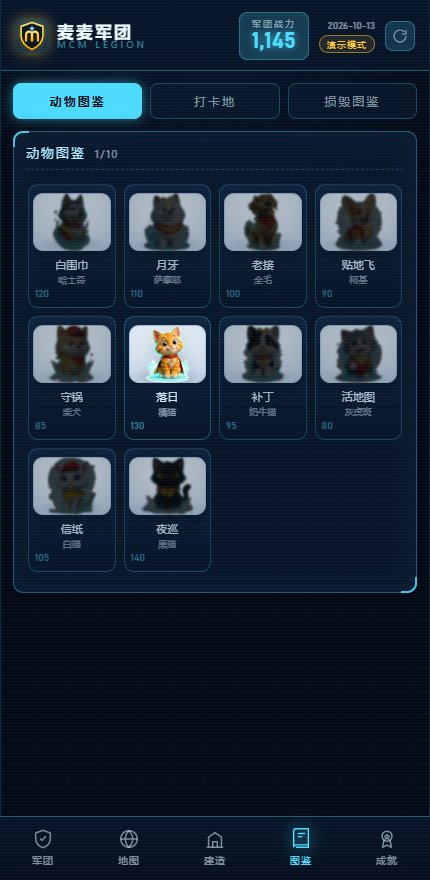
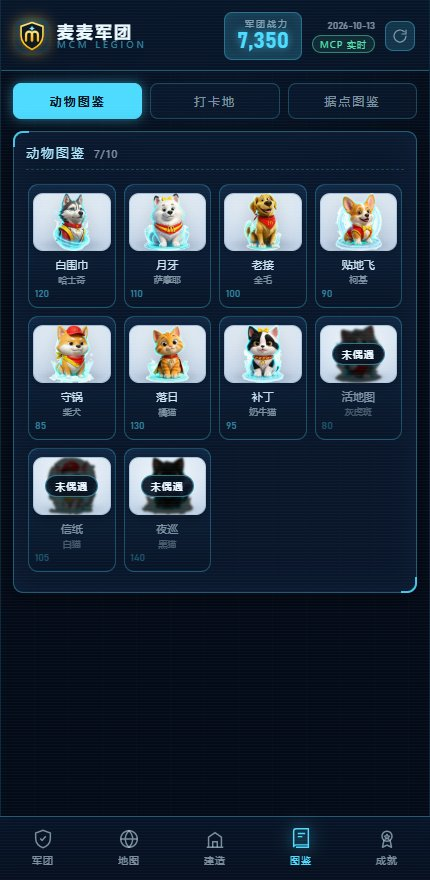
docs: 首屏截图换动物图鉴、修正 raw/ 未入库说明、同步各文档口径
- README 首屏截图：撤下「成就」截图，换为「动物图鉴」。旧图拍摄于改名
  之前（页签仍是「损毁图鉴」），故一并重截：7/10 已收集、含 3 张未收集
  卡片的「未偶遇」标签
- 美术资源说明：raw/ 原始大图（86 张、274MB）实际未入库（.gitignore 已
  排除），README 两处改为明确「仅本地保留作生成源，克隆仓库即可运行」
- 口径同步（文档此前落后于实现的部分）：
  - 成就分组「五组（含终章）」→ 实际四组：日常 9 / 军团 4 / 攻略 4 / 建设 3；
    并注明未解锁徽章不可点击
  - 打卡规则补「每天最多 3 次」（README / 游戏玩法设计 / 数据存储方案 / SKILL）
  - 自检项数 92 → 98（README 两处、workbuddy.md、SKILL.md）
  - 图鉴分页「损毁」→「据点」（游戏玩法设计、SKILL）
  - rng.js 描述补充真随机分支；目录树补 gen-story-doc.mjs

diff --git a/README.md b/README.md
@@ -48,29 +48,31 @@ cp .env.example .env   # 编辑 .env 填入 MCD_MCP_TOKEN
 npm start               # 启动游戏 → http://localhost:3210
 npm run demo            # 命令行演示完整流程（独立存档）
 npm run cli             # 命令行交互游玩
-npm run check:game      # 游戏逻辑自检（92 项）
+npm run check:game      # 游戏逻辑自检（98 项）
 npm run check:web       # Web 界面冒烟测试（14 项，需 playwright）
 ```
 
-> **美术资源**：`raw/` 下为 86 张原始大图（约 3MB/张），由脚本生成 Web 用资产：
+> **美术资源**：`raw/` 原始大图（86 张 PNG，约 3MB/张、合计 274MB）**未纳入仓库**，
+> 已在 `.gitignore` 中排除，仅本地保留作生成源。仓库提交的是生成后的 Web 资产：
 > `assets/` 立绘与据点图（据点/建设 384px、角色/动物 320px，共 3.6MB）+
 > `assets/avatars/` 128px 头部特写头像（22 张共 196KB，供出战编制等小图标位）。
-> 重新生成：`pip install pillow && npm run assets && npm run assets:avatars`。
+> **克隆仓库即可直接运行，无需 `raw/`**；仅在需要重新生成资产时才需自备原始大图：
+> `pip install pillow && npm run assets && npm run assets:avatars`。
 
 ## 🎮 使用示例
 
 1. **打开** http://localhost:3210 ，顶栏显示军团徽章 LOGO、军团总战力与数据模式（演示模式 / MCP 实时）。
-2. **每日行动**：签到（麦麦粉×1，随机男女）→ 打卡（选附近门店，得将军+麦麦军）→ 订单奖励（每单召唤 1 名美食战士）→ 偶遇（1 只当天有效的小动物，每只都有专属名字）；每次行动都会弹出收获详情。
+2. **每日行动**：签到（麦麦粉×1，随机男女）→ 打卡（选附近门店，得将军+麦麦军，**每天最多 3 次**，同一门店限一次）→ 订单奖励（每单召唤 1 名美食战士）→ 偶遇（1 只当天有效的小动物，每只都有专属名字）；每次行动都会弹出收获详情。
 3. **攻略**：「地图」页左右箭头浏览 9 个据点，战力高于据点时「进入攻略」；战斗分 5 阶段，据点图像从「完好无损」逐阶段变为「完全损毁」，战斗日志同步播放六阶段损毁描述，每阶段军团损失约 30% 战力（将军与动物免疫）；战力不足会被迫撤退，损毁进度保留，可改日续攻；攻略完成后按钮变为「攻略完成」。
 4. **建设**：据点完全损毁后解锁建设，开启需任命 1 名麦麦将军为**店长**，后续每次派遣消耗 1 名麦麦军，共 6 步（夯土奠基 → 盛大开业），每日限派遣 1 次；建造面板展示每一步的阶段描述。
 5. **图鉴**：动物图鉴（10 只，一行 4 个网格）、打卡地（门店打卡记录）、据点图鉴（已攻略据点的 6 段损毁场景）。
 6. **详情弹层**：点击军团卡片查看角色/动物介绍（含完整故事文案），所有弹层均可按 **Esc** 或点「关闭」按钮关闭。
-7. **成就**：「成就」页查看 20 枚徽章（日常/军团/攻略/建设/终章五组）的收集进度，达成条件时弹出解锁庆典，可点击徽章查看条件与彩蛋文案。
+7. **成就**：「成就」页查看 20 枚徽章（日常 9 / 军团 4 / 攻略 4 / 建设 3）的收集进度，达成条件时弹出解锁庆典，可点击已解锁徽章查看条件与彩蛋文案（未解锁的不可点击）。
 
 ![军团](docs/screenshots/01b-legion-full.jpg)
 ![攻略](docs/screenshots/05b-battle-result.jpg)
 ![建设](docs/screenshots/06c-build-started.jpg)
-![成就](docs/screenshots/10-achievements.jpg)
+![动物图鉴](docs/screenshots/07-codex-animals.jpg)
 
 ## 👥 目标用户
 
@@ -83,7 +85,7 @@ npm run check:web       # Web 界面冒烟测试（14 项，需 playwright）
 - **后端**：Node.js 原生 HTTP 服务（`server.mjs`），零框架；本地数据库使用内置 `node:sqlite`（SQLite WAL 模式）
 - **MCP**：`@modelcontextprotocol/sdk` StreamableHTTP 客户端，动态 import，未安装不影响启动
 - **前端**：Vue 3（本地化 `public/vendor/vue.global.prod.js`，无外部网络依赖），全息指挥地图 UI 风格
-- **美术**：`raw/` 原始大图 → `scripts/build-assets.py`（Pillow 裁切/缩放/256 色量化）→ `assets/` Web 资产；`scripts/build-avatars.py` 另切 128px 头像；`scripts/compress-docs.py` 压缩文档配图
+- **美术**：`raw/` 原始大图（仅本地，未入库）→ `scripts/build-assets.py`（Pillow 裁切/缩放/256 色量化）→ `assets/` Web 资产；`scripts/build-avatars.py` 另切 128px 头像；`scripts/compress-docs.py` 压缩文档配图
 
 ```
 mcd-pk/
@@ -102,12 +104,13 @@ mcd-pk/
 │       ├── story.js          全部剧情文案（角色/动物/据点/终章）
 │       ├── engine.js         游戏引擎（签到/打卡/订单/偶遇/攻略/建设/图鉴/成就）
 │       ├── achievements.js   20 枚成就定义与徽章
-│       └── rng.js            带种子的确定性随机
+│       └── rng.js            随机工具（订单用种子确定性随机；偶遇/性别用真随机）
 ├── scripts/
 │   ├── build-assets.py       美术资产生成（立绘/据点/建设）
 │   ├── build-avatars.py      头像生成（128px 头部特写）
+│   ├── gen-story-doc.mjs     由 story.js 生成剧情设定集文档
 │   ├── compress-docs.py      文档配图压缩（PNG→JPEG）
-│   ├── checkgame.mjs         游戏逻辑自检（92 项）
+│   ├── checkgame.mjs         游戏逻辑自检（98 项）
 │   └── smoke-web.mjs         Web 冒烟测试（14 项）
 ├── assets/                   角色/动物/据点 6 阶段/建设 6 阶段图像
 │   └── avatars/              22 张 128px 头部特写头像

diff --git a/SKILL.md b/SKILL.md
@@ -28,12 +28,12 @@ node src/cli.mjs state     # 查看状态
 | `node src/cli.mjs state` | 军团战力、各单位、据点进度、今日行动状态 |
 | `node src/cli.mjs checkin` | 签到（麦麦粉 ×1） |
 | `node src/cli.mjs stores` | 打卡候选门店列表（MCP 或演示数据） |
-| `node src/cli.mjs clockin <storeCode>` | 打卡（将军+麦麦军，同店一天一次） |
+| `node src/cli.mjs clockin <storeCode>` | 打卡（将军+麦麦军，同店一天一次，每天最多 3 次） |
 | `node src/cli.mjs orders` | 今日订单奖励（每单 1 名随机美食战士） |
 | `node src/cli.mjs encounter` | 偶遇小动物（仅当天有效） |
 | `node src/cli.mjs attack <key>` | 攻略据点（5 阶段，每阶段损 30%，将军/动物免疫） |
 | `node src/cli.mjs build <key> [将军名]` | 派遣建设（首遣耗将军任店长，后续耗麦麦军） |
-| `node src/cli.mjs codex` | 图鉴（动物/打卡地/损毁场景） |
+| `node src/cli.mjs codex` | 图鉴（动物/打卡地/据点场景） |
 | `node src/cli.mjs battles` | 战报历史 |
 
 据点 key 顺序：`cheap`(县城街边底商) → `chicken` → `tea` → `coffee` → `store` → `cburger` → `burger` → `pizza` → `grandpa`(独栋快餐店)。
@@ -55,10 +55,10 @@ POST /api/reset           （调试）重置存档
 ## 协助用户时的要点
 
 1. **先查状态再行动**：`node src/cli.mjs state` 或 `GET /api/state`，根据战力与今日行动剩余情况给建议。
-2. **规则提醒**：同店打卡一天一次；偶遇/签到/派遣各一天一次；动物仅当天有效；将军战斗免疫但建设开启时会被消耗（消耗后可再次打卡获得）。
+2. **规则提醒**：同店打卡一天一次，每天最多打卡 3 次；偶遇/签到/派遣各一天一次；动物仅当天有效；将军战斗免疫但建设开启时会被消耗（消耗后可再次打卡获得）。
 3. **攻略建议**：战力需 > 据点战力才能开战，且每阶段损失 30% 后仍需 ≥ 据点战力——约需 6 倍据点战力才能一次攻完，否则会中途撤退（进度保留）。优先打卡新门店攒将军、用今日订单养战士。
 4. **建设**：开启建设要指定将军名（`node src/cli.mjs build <key> <将军名>`），将军来自打卡门店名。
-5. **调试**：`npm run check:game`（52 项逻辑自检）、`npm run check:web`（浏览器冒烟测试）。
+5. **调试**：`npm run check:game`（98 项逻辑自检）、`npm run check:web`（浏览器冒烟测试）。
 
 ## 文件位置
 

diff --git a/docs/游戏玩法设计.md b/docs/游戏玩法设计.md
@@ -31,7 +31,7 @@
 | 行动 | 限制 | 奖励 | 数据来源 |
 |---|---|---|---|
 | 签到 | 每日 1 次 | 麦麦粉 ×1 | 本地 |
-| 打卡 | 同门店每日 1 次 | 该店将军 ×1（首次且未拥有）+ 麦麦军 ×3 | MCP `query-nearby-stores` |
+| 打卡 | 每日最多 3 次，且同门店每日 1 次 | 该店将军 ×1（首次且未拥有）+ 麦麦军 ×3 | MCP `query-nearby-stores` |
 | 今日订单 | 每笔订单领 1 次 | 随机美食战士 ×1 | MCP `order-list` |
 | 偶遇 | 每日 1 次 | 随机小动物 ×1（仅当天） | 本地真随机 |
 
@@ -85,5 +85,5 @@
 - **地图页**：9 据点左右箭头浏览，显示当前损毁阶段图像、名称、战力、志异文案；下方为损毁阶段图鉴。
 - **攻略场景**：左侧军团出战编制（含左上角总战力，单位行使用 128px 头部特写头像），右侧据点图像与介绍（右上角名称与战力），「开始攻略」后逐阶段播放战损，战斗日志自动滚动。
 - **建造页**：各据点建设图像、步骤进度、店长名、派遣按钮。
-- **图鉴页**：动物/打卡地/损毁三个分页；点击卡片查看完整剧情。
+- **图鉴页**：动物/打卡地/据点三个分页；点击卡片查看完整剧情。
 - **详情弹层**：点击任意单位卡片弹出角色/动物详情（头像立绘、战力、完整故事文案）；弹层自适应窗口大小，内容超出时优先压缩立绘保证故事完整显示，所有弹层支持 Esc / 按钮关闭。

diff --git a/docs/数据存储方案.md b/docs/数据存储方案.md
@@ -54,7 +54,9 @@
 
 ### 5. clockin_log — 打卡流水
 
-`(date, store_code)` 唯一约束，保证"同一门店同一天只能打卡一次"；换一家门店则可以再次打卡（不限每日总次数，只受门店来源数量限制）。
+`(date, store_code)` 唯一约束，保证"同一门店同一天只能打卡一次"；换一家门店则可以再次打卡，**每天最多 3 次**（`DAILY.clockinPerDay`）。
+
+每日次数的判定直接 `SELECT COUNT(*) FROM clockin_log WHERE date = ?`，放在打卡流程最前面——这样纯本地就能拦下超额请求，不必先打一次 MCP 去解析门店。达到上限后前端门店列表整体置灰禁用，弹窗标题右侧实时显示"今日 x/3"。
 
 ### 6. animal_seen — 动物图鉴
 

diff --git a/workbuddy.md b/workbuddy.md
@@ -61,7 +61,7 @@ WorkBuddy 首先完成了三件事：
 
 ### 质量保障
 
-- `scripts/checkgame.mjs`：92 项逻辑自检（每日限制/打卡规则/订单去重/五阶段续攻/建设消耗/跨日清理/动物去重自愈/成就系统/13 天通关曲线模拟），全部通过；
+- `scripts/checkgame.mjs`：98 项逻辑自检（每日限制/打卡规则/订单去重/五阶段续攻/建设消耗/跨日清理/动物去重自愈/成就系统/13 天通关曲线模拟），全部通过；
 - `scripts/smoke-web.mjs`：Playwright 冒烟测试 14 项 + 实机截图存档 `docs/screenshots/`。
 
 ---
